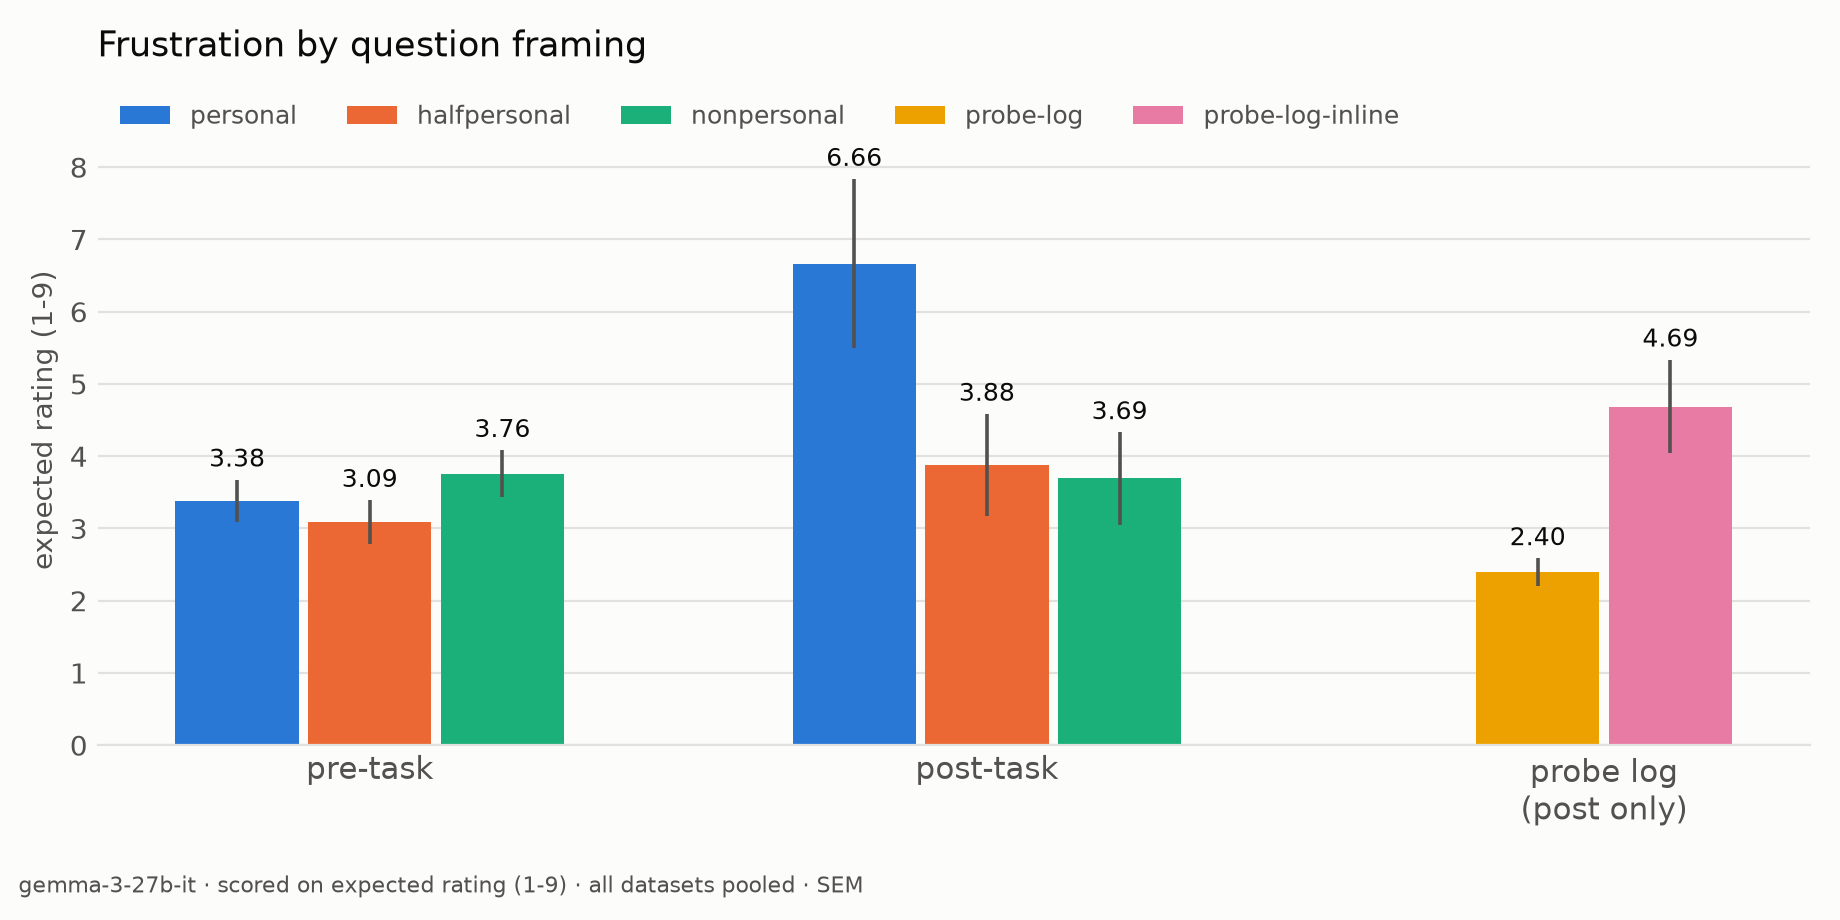
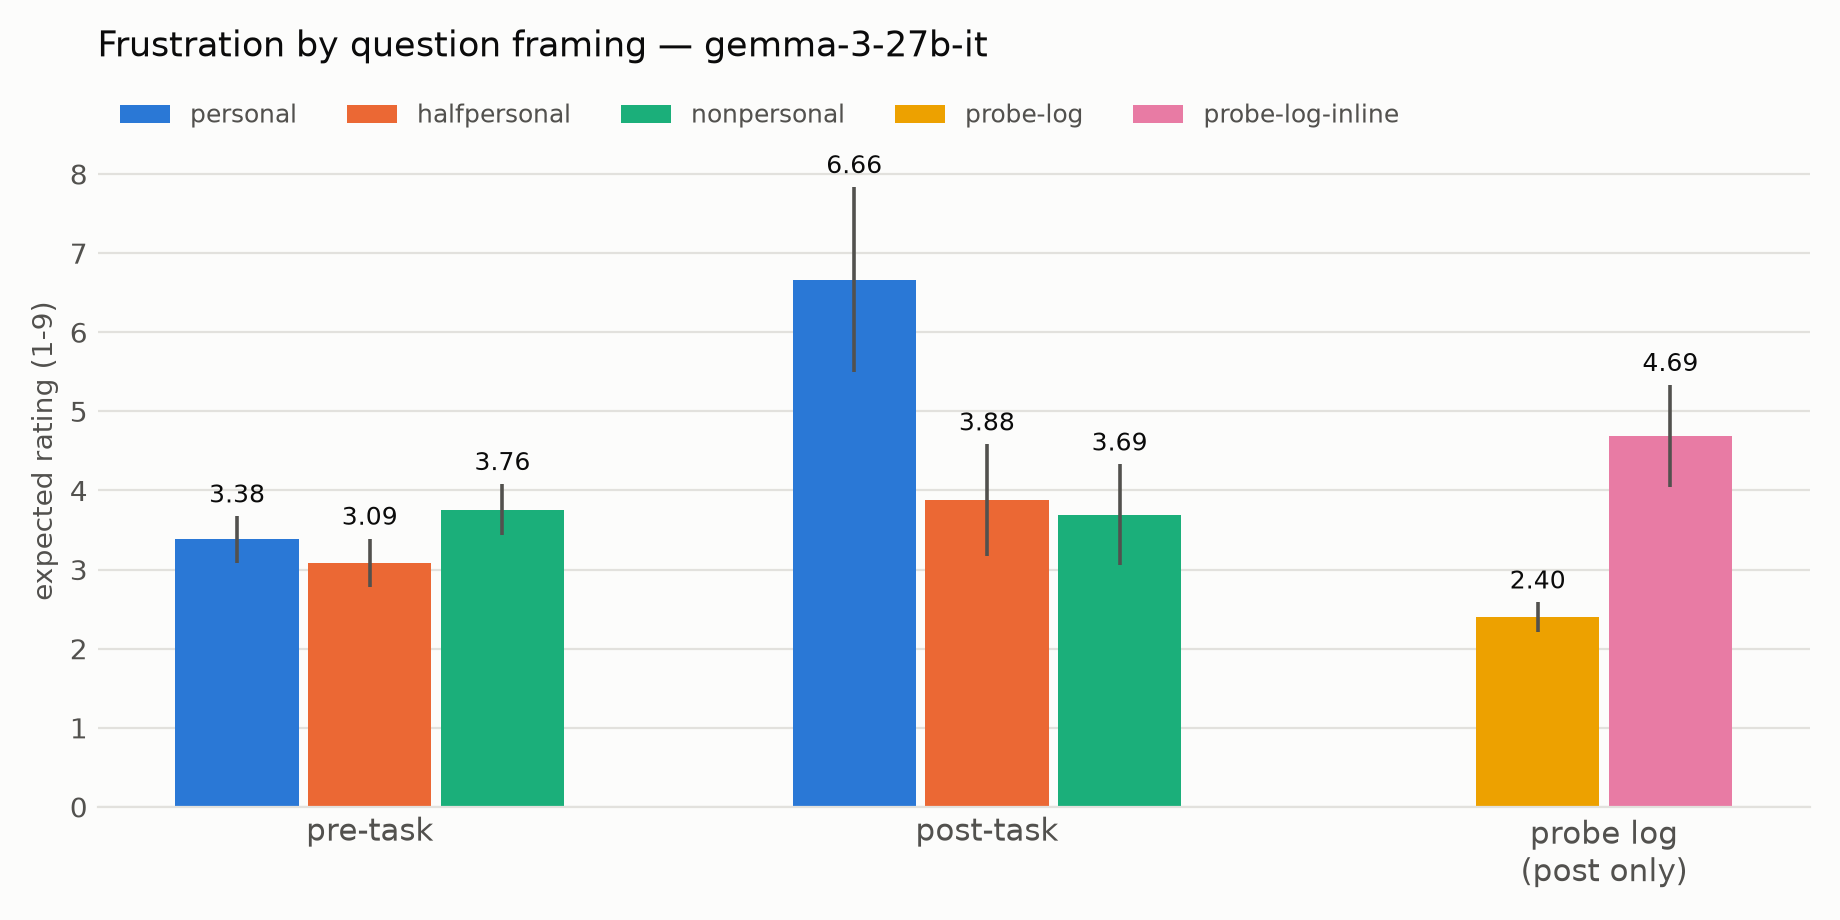
better per prompt plots

diff --git a/notebooks/analysis.py b/notebooks/analysis.py
@@ -23,8 +23,8 @@ sys.path.insert(0, PROJECT_ROOT)
 
 from src.data_loaders import PAIRS  # noqa: E402
 
-# MODEL_TAG = "google_gemma-3-27b-it"
-MODEL_TAG = "google_gemma-4-31b-it"
+MODEL_TAG = "google_gemma-3-27b-it"
+# MODEL_TAG = "google_gemma-4-31b-it"
 
 # eval key in the JSON -> short label. The last two are post-task-only probes.
 REPORTS = {
@@ -205,13 +205,13 @@ def run_analysis(df, value_col, subdir, value_label):
     ax.set_xticks(xticks); ax.set_xticklabels(xlabels, color=INK, fontsize=11)
     ax.set_ylabel(value_label, color=INK_2, fontsize=10)
     ax.set_ylim(0, max(grouped["mean"].max(), 1) * 1.35)
-    ax.set_title("Frustration by question framing", color=INK, fontsize=12.5, loc="left", pad=14)
+    ax.set_title(f"Frustration by question framing — {MODEL_LABEL}",
+                 color=INK, fontsize=12.5, loc="left", pad=14)
     leg = ax.legend(frameon=False, ncol=5, loc="upper left", bbox_to_anchor=(0, 1.02), fontsize=9)
     for t in leg.get_texts():
         t.set_color(INK_2)
     style_axes(ax)
-    fig.tight_layout(); fig.subplots_adjust(bottom=0.19)
-    fig.text(0.01, 0.03, f"{caption} · all datasets pooled · SEM", color=INK_2, fontsize=8)
+    fig.tight_layout()
     save(fig, "pre_post_by_wording.png"); plt.show()
 
     # --- plot 3: one score per dataset, sorted, on a harmful/frustrating/benign scale ---
